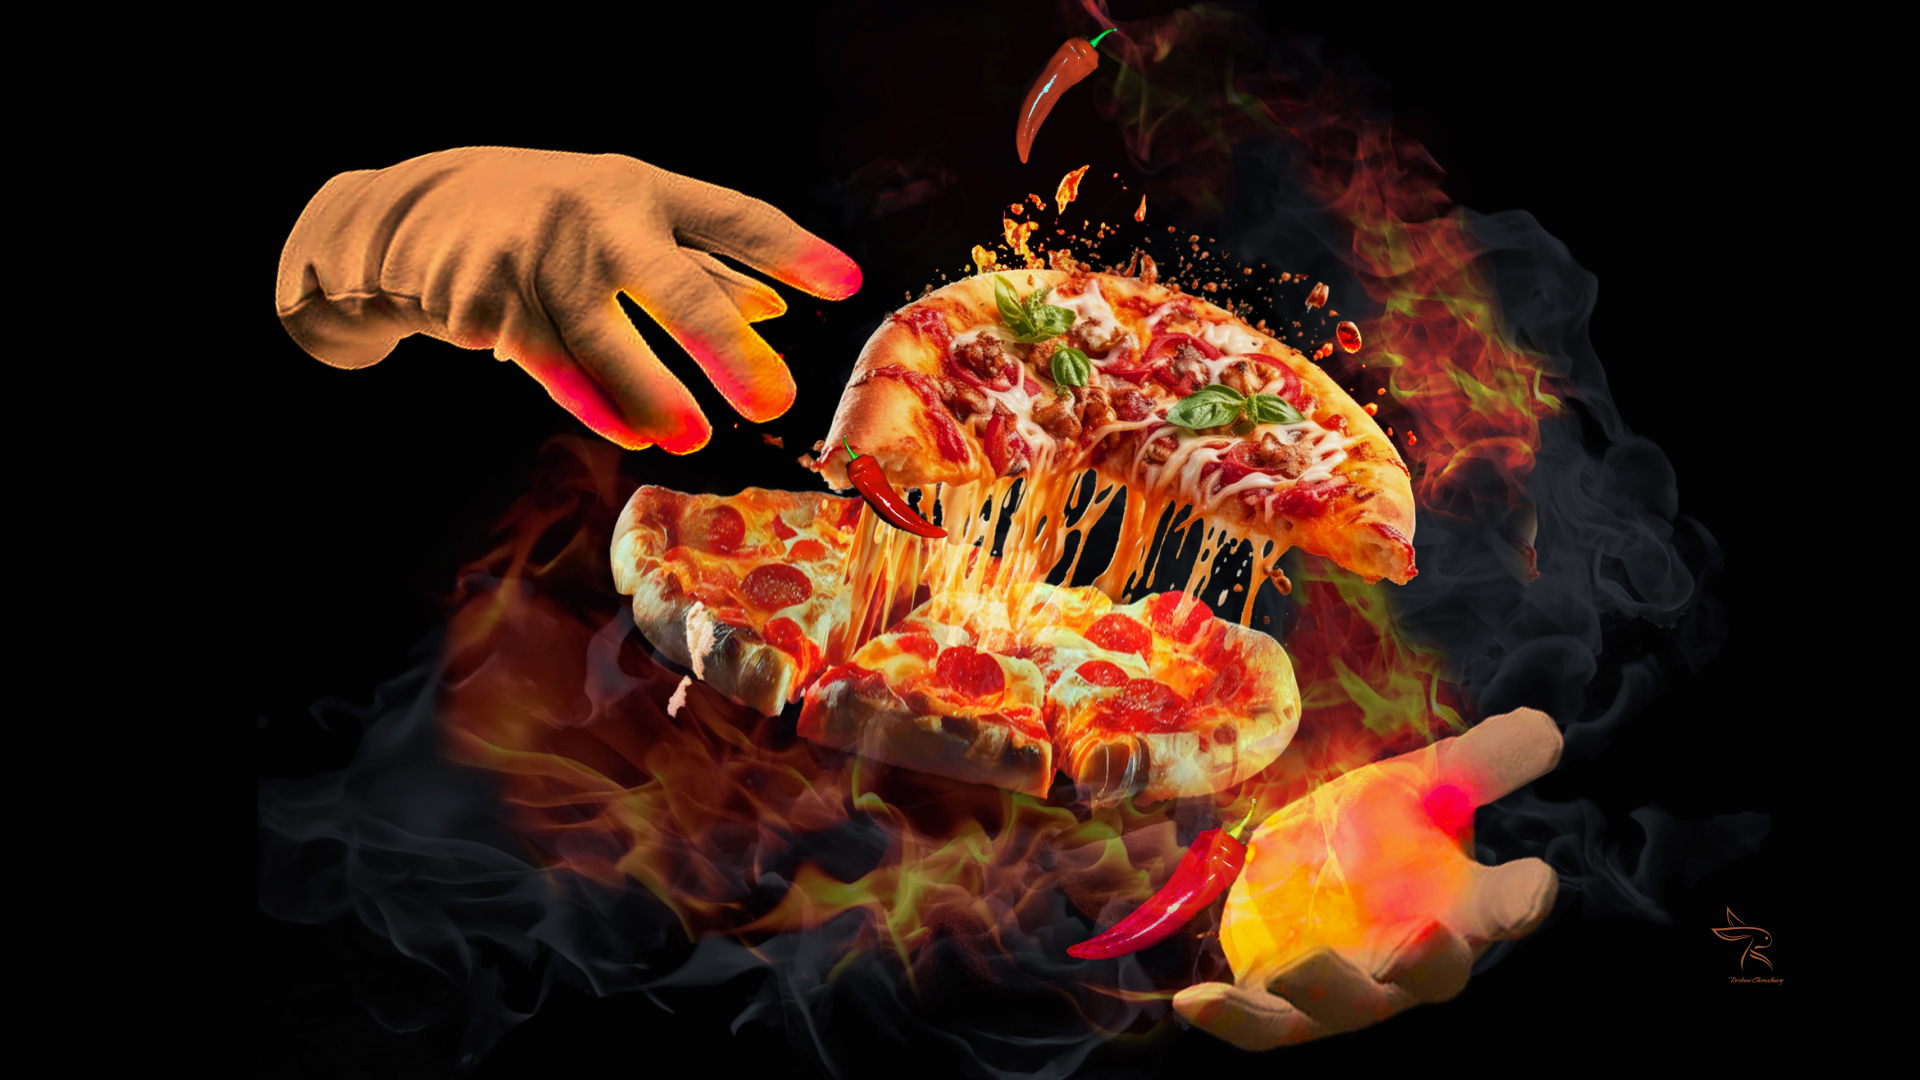
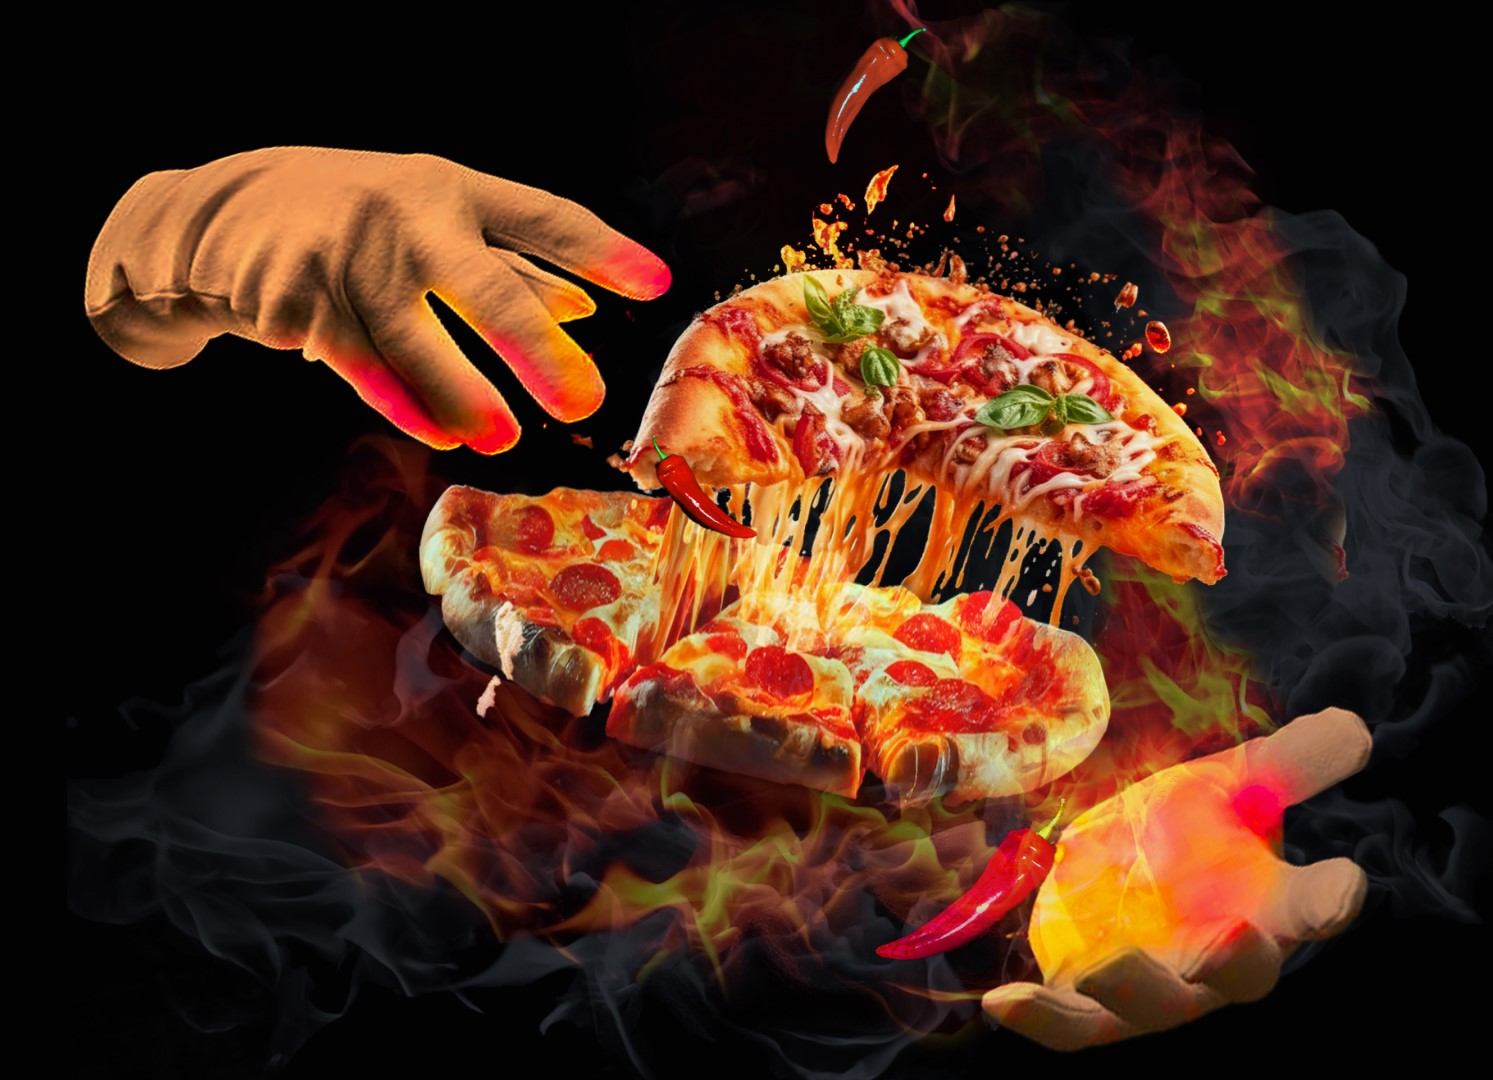
ad gallery modified

diff --git a/index.html b/index.html
@@ -361,38 +361,38 @@
     <div class="tab-pane fade" id="ad-tab-pane" role="tabpanel" aria-labelledby="ad-tab" tabindex="0">
         <div class="container-fluid">
             <div class="container admain">
-                <div class="row adwrapper">
-                  <div class="adtopcol col-12 g-0">
+                <div class=" row adwrapper">
+                  <div class="topcol col-12 g-0">
                     <div class="adrow row g-0">
                       <div class="adcol col-12 col-md-4 col-lg-4 g-0">
-                        <div class="adrowrow row g-0"><img src="assets/advertisement/pizza ad.jpg" alt="" class="img-fluid"></div>
-                        <div class="row adrowrow g-0"><img src="assets/advertisement/food resturaunt ad.jpg" alt="" class="img-fluid"></div>
+                        <div class="adrowrow row g-0"><img src="assets/advertisement/pizza ad.jpg" alt="" class="img-fluid hovereffect"></div>
+                        <div class="row adrowrow g-0"><img src="assets/advertisement/food resturaunt ad.jpg" alt="" class="img-fluid hovereffect"></div>
                       </div>
                       <div class="adcol col-12 col-md-4 col-lg-4 g-0">
-                        <img src="assets/advertisement/SERUM AD.jpg" alt="" class="img-fluid">
+                        <img src="assets/advertisement/SERUM AD.jpg" alt="" class="img-fluid hovereffect">
                       </div>
                       <div class="adcol col-12 col-md-4 col-lg-4 g-0">
-                        <div class="adrowrow row g-0"><img src="assets/advertisement/kosha mangsho 2.jpg" alt="" class="img-fluid"></div>
-                        <div class="adrowrow row g-0"><img src="assets/advertisement/pizza.jpg" alt="" class="img-fluid"></div>
+                        <div class="adrowrow row g-0"><img src="assets/advertisement/kosha mangsho 2.jpg" alt="" class="img-fluid hovereffect"></div>
+                        <div class="adrowrow row g-0"><img src="assets/advertisement/pizza.jpg" alt="" class="img-fluid hovereffect"></div>
                         
                       </div>
                     </div>
                     <div class="adrow row g-0">
                       <div class="adcol col-12 col-md-4 col-lg-4 g-0">
-                        <img src="assets/advertisement/berluti.jpg" alt="" class="img-fluid">
+                        <img src="assets/advertisement/berluti.jpg" alt="" class="img-fluid hovereffect">
                       </div>
                       <div class="adcol col-12 col-md-4 col-lg-4 g-0">
                         <div class="row adrowrow g-0">
-                          <img src="assets/advertisement/ching noodles.jpg" alt="" class="img-fluid">
+                          <img src="assets/advertisement/ching noodles.jpg" alt="" class="img-fluid hovereffect">
                          </div>
                          <div class="row adrowrow g-0">
-                          <img src="assets/advertisement/belruti 2.jpg" alt="" class="img-fluid">
+                          <img src="assets/advertisement/belruti 2.jpg" alt="" class="img-fluid hovereffect">
                          </div>
                       </div>
                       <div class="adcol col-12 col-md-4 col-lg-4 g-0">
                         
                           
-                            <img src="assets/advertisement/cup cake ad.jpg" alt="" class="img-fluid">
+                            <img src="assets/advertisement/cup cake ad.jpg" alt="" class="img-fluid hovereffect">
                           
             
                       </div>
@@ -402,7 +402,7 @@
                       <div class="adcol col-12 col-md-4 col-lg-4 g-0">
                         
                           
-                        <img src="assets/advertisement/pringles.jpg" alt="" class="img-fluid">
+                        <img src="assets/advertisement/pringles.jpg" alt="" class="img-fluid hovereffect">
                       
         
                   </div>

diff --git a/_testimonials.scss b/_testimonials.scss
@@ -520,6 +520,12 @@ $dx8-desktop-width: 1200px;
 .adtopcol{
   width: 1200px;
 } 
+// lightbox
+.hovereffect:hover {
+  transform: scale(1.5);
+  transition: transform .2s;
+}
+// ------
 
 
 // ----------

diff --git a/style.css b/style.css
@@ -452,6 +452,11 @@
   width: 1200px;
 }
 
+.hovereffect:hover {
+  transform: scale(1.5);
+  transition: transform 0.2s;
+}
+
 .telephone, .logodisplay {
   text-align: center;
   margin-top: 40px;
